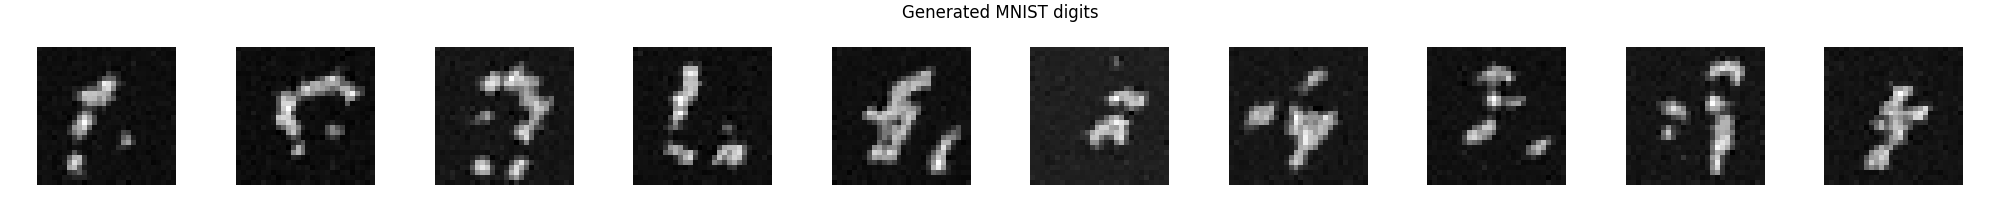
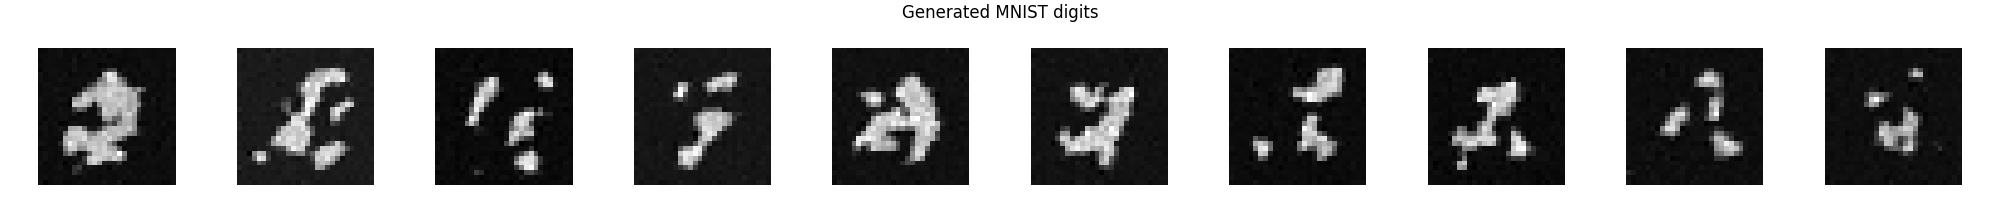
CUDA Support + GPU dataloader

diff --git a/diffusion_MNIST/main.py b/diffusion_MNIST/main.py
@@ -8,6 +8,7 @@ import math
 import matplotlib.pyplot as plot
 
 device = 'cuda' if torch.cuda.is_available() else 'mps' if torch.backends.mps.is_available() else 'cpu'
+print(f"Using device: {device}")
 
 @torch.no_grad()
 def sample(model, alpha_bars, T = 1000,num_samples = 10):
@@ -84,41 +85,27 @@ if __name__ == '__main__':
         transform=transforms.Compose([
         transforms.ToTensor(),
         transforms.Normalize((0.5,), (0.5,))
-  ])
-        
-    )
-    dataloader = DataLoader(dataset, batch_size=128, shuffle=True, num_workers=4, pin_memory=True)
+  ]))
+
+    
+    # Load entire dataset into GPU once — MNIST is ~190MB, no reason to keep hitting CPU
+    loader = DataLoader(dataset, batch_size=4096, num_workers=4, pin_memory=True)
+    all_images = torch.cat([imgs for imgs, _ in loader]).to(device)  # [60000, 1, 28, 28]
+    N = len(all_images)
+    batch_size = 1024
+
     alpha_bars = get_noise_schedule()
-
-    # images, labels = next(iter(dataloader))
-
-    # Visualize forward diffusion on 3 images across 5 timesteps
-    # timesteps = [0, 10, 50, 100, 150, 199]
-    # num_images = 3
-    # fig, axes = plot.subplots(num_images, len(timesteps), figsize=(15, 9))
-
-    # for row in range(num_images):
-    #     img = images[row]  # [1, 28, 28]
-    #     for col, t in enumerate(timesteps):
-    #         t_tensor = torch.tensor([t])
-    #         x_t, _ = forward_diffusion(img.unsqueeze(0), t_tensor, alpha_bars)
-    #         axes[row, col].imshow(x_t.squeeze().numpy(), cmap='gray')
-    #         axes[row, col].set_title(f't={t}')
-    #         axes[row, col].axis('off')
-
-    # plot.tight_layout()
-    # plot.savefig('diffusion_MNIST/forward_diffusion.png')
-    # plot.show()
 
     model = SimpleUNet().to(device)
     optimizer = torch.optim.Adam(model.parameters(), lr = 2e-4)
-    num_epochs = 50
+    num_epochs = 1000
 
     for epoch in range(num_epochs):
         total_loss = 0
-        for batch, _ in dataloader:
-            batch = batch.to(device)
-            t = torch.randint(0,999,size = (len(batch),)).to(device)
+        perm = torch.randperm(N, device=device)
+        for i in range(0, N, batch_size):
+            batch = all_images[perm[i:i+batch_size]]
+            t = torch.randint(0, 999, size=(len(batch),), device=device)
             x_t, epsilon = forward_diffusion(batch, t, alpha_bars)
             epsilon_pred = model(x_t, t)
             loss = F.mse_loss(epsilon_pred, epsilon)
@@ -127,8 +114,9 @@ if __name__ == '__main__':
             loss.backward()
             optimizer.step()
 
-        if(epoch % 1 == 0) :
-                print(f"Epoch : {epoch} | Loss: {total_loss / len(dataloader)}")
+        num_steps = math.ceil(N / batch_size)
+        if epoch % 1 == 0:
+            print(f"Epoch : {epoch} | Loss: {total_loss / num_steps}")
 
         # generate and plot
     generated = sample(model, alpha_bars).cpu()  # [10, 1, 28, 28]